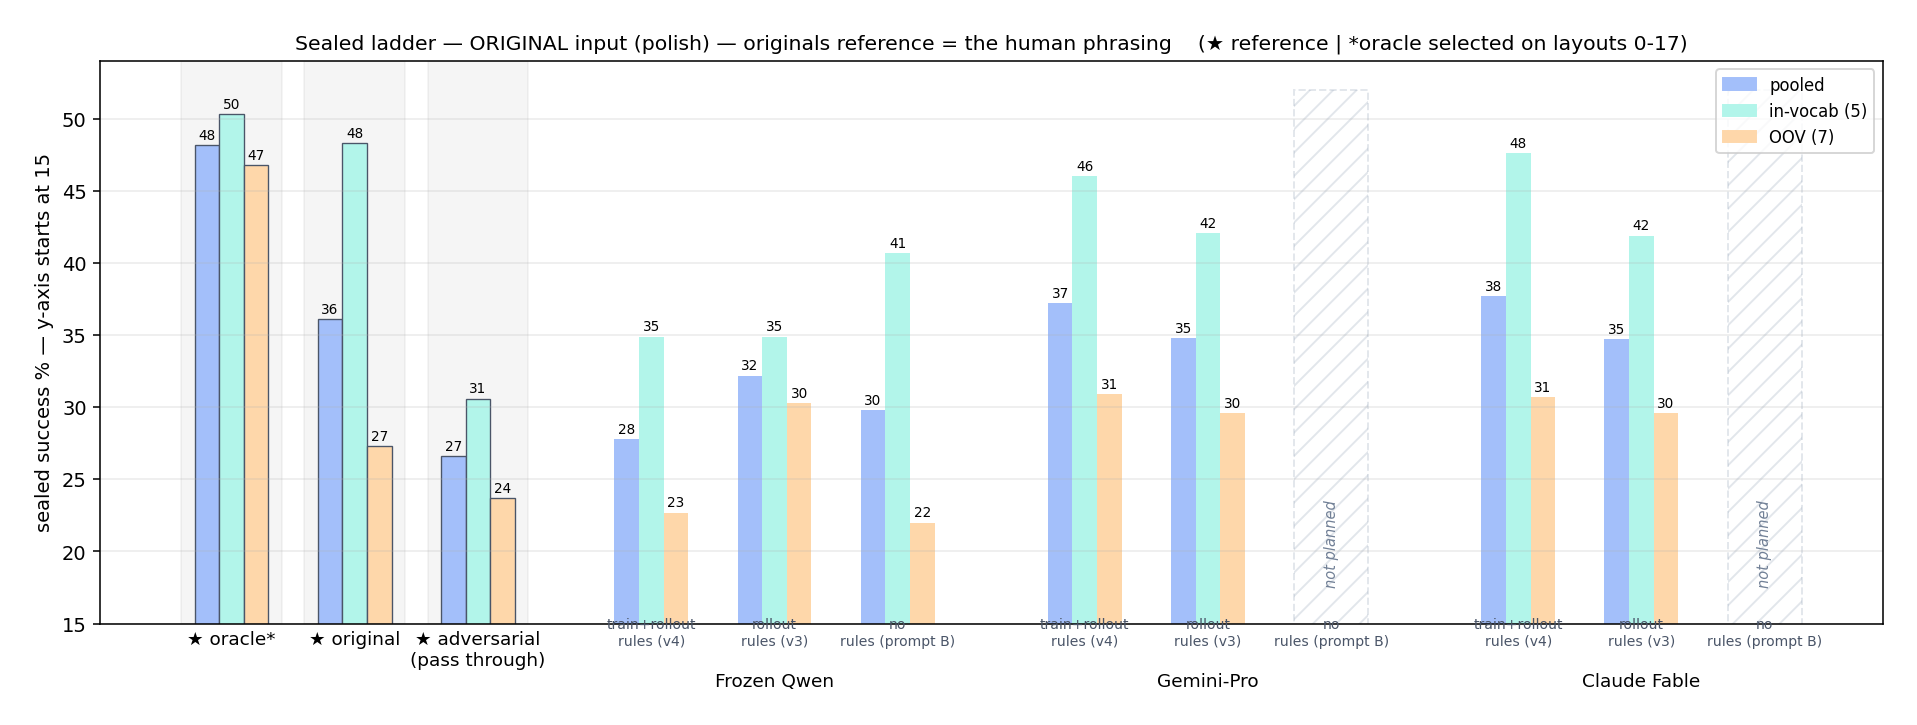
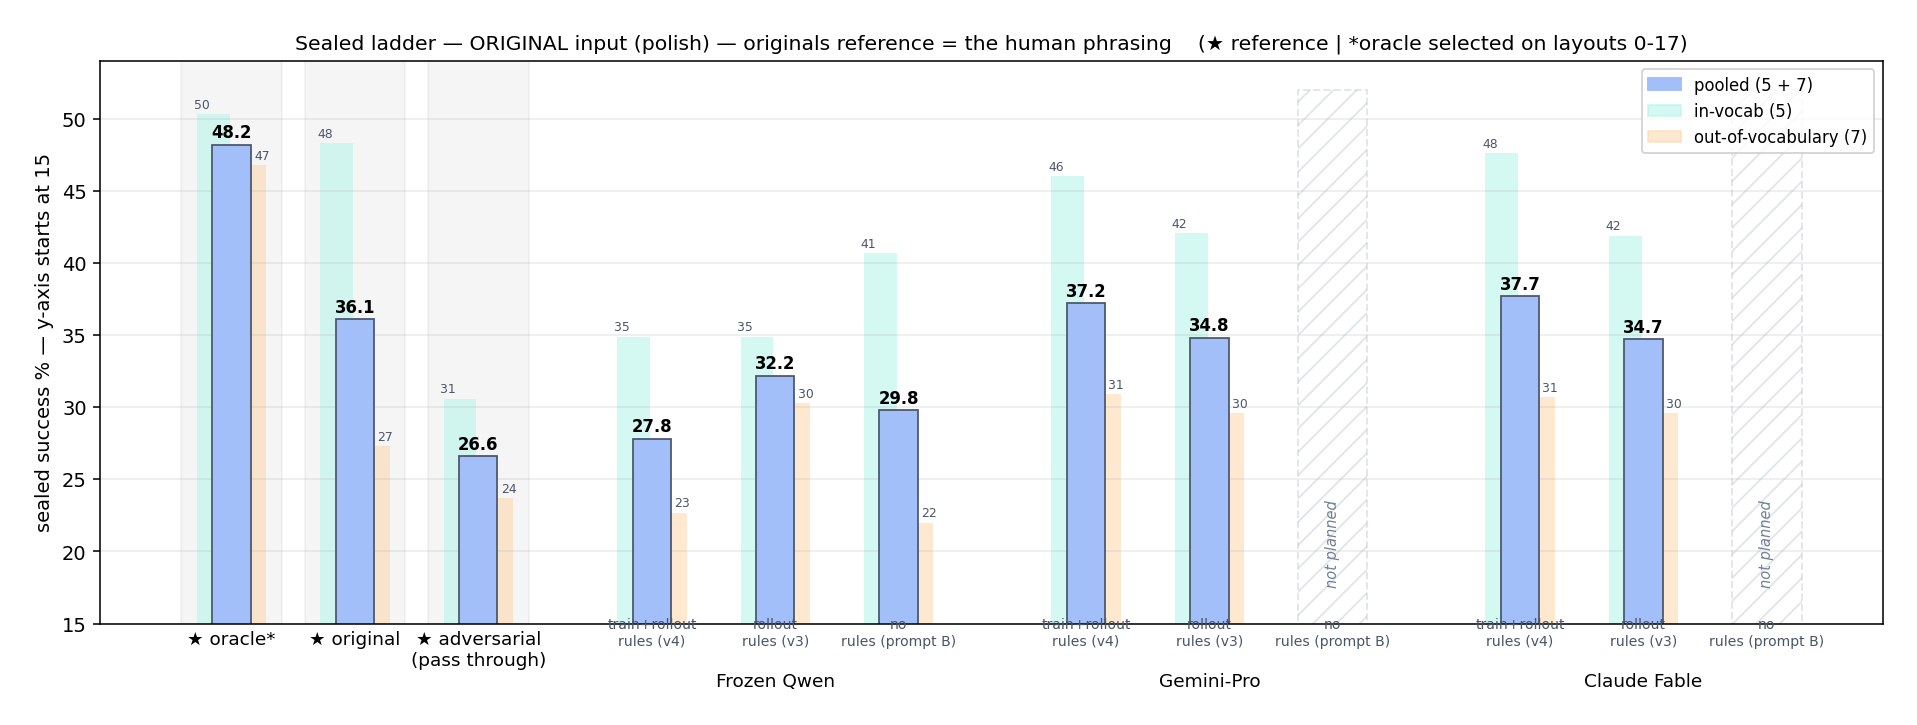
condition ladders: pooled-forward style (strata translucent behind), both conditions

diff --git a/scripts/make_condition_ladders.py b/scripts/make_condition_ladders.py
@@ -33,8 +33,19 @@ DATA = {
         "pending": {("Gemini-Pro", 2): "not planned", ("Claude Fable", 2): "not planned"},
     },
 }
-STRATA = [("pooled", "#a3bffa"), ("in-vocab (5)", "#b2f5ea"), ("OOV (7)", "#fed7aa")]
-W = 0.27
+C_POOL, C_IV, C_OOV = "#a3bffa", "#b2f5ea", "#fed7aa"
+
+
+def triplet_bars(ax, x, vals, ref=False):
+    """pi0_conditions style: pooled wide/solid in front; strata thin,
+    translucent, behind, peeking out either side."""
+    pool, iv, oov = vals
+    ax.bar(x - 0.20, iv, 0.36, color=C_IV, alpha=0.55, zorder=1, edgecolor="none")
+    ax.bar(x + 0.20, oov, 0.36, color=C_OOV, alpha=0.55, zorder=1, edgecolor="none")
+    ax.text(x - 0.33, iv + 0.4, f"{iv:.0f}", ha="center", fontsize=6.4, color="#4a5568", zorder=3)
+    ax.text(x + 0.33, oov + 0.4, f"{oov:.0f}", ha="center", fontsize=6.4, color="#4a5568", zorder=3)
+    ax.bar(x, pool, 0.42, color=C_POOL, zorder=2, edgecolor="#4a5568", lw=0.9)
+    ax.text(x, pool + 0.5, f"{pool:.1f}", ha="center", fontsize=8.5, fontweight="bold", zorder=3)
 
 for cond, spec in DATA.items():
     fig, ax = plt.subplots(figsize=(13.5, 5.0))
@@ -44,10 +55,7 @@ for cond, spec in DATA.items():
         for j, ((sname, col), v) in enumerate(zip(STRATA, vals if isinstance(vals, tuple) else [])):
             pass
     for name, vals in REFS:
-        for j, ((sname, col), v) in enumerate(zip(STRATA, vals)):
-            ax.bar(x + (j - 1) * W, v, W, color=col,
-                   edgecolor="#4a5568", lw=0.7)
-            ax.text(x + (j - 1) * W, v + 0.4, f"{v:.0f}", ha="center", fontsize=7)
+        triplet_bars(ax, x, vals, ref=True)
         ax.axvspan(x - 0.55, x + 0.55, color="#000000", alpha=0.04, zorder=0)
         ticks.append(x)
         ticklabels.append("★ " + name)
@@ -57,15 +65,13 @@ for cond, spec in DATA.items():
         cxs = []
         for i, cell in enumerate(cells):
             if cell is None:
-                ax.bar(x, 52, 3 * W, color="none", edgecolor="#a0aec0", ls="--",
+                ax.bar(x, 52, 0.76, color="none", edgecolor="#a0aec0", ls="--",
                        lw=1.0, hatch="//", alpha=0.30)
                 note = spec["pending"].get((model, i), "not yet run")
                 ax.text(x, 17.5, note, ha="center", va="bottom", fontsize=7.5,
                         color="#718096", style="italic", rotation=90)
             else:
-                for j, ((sname, col), v) in enumerate(zip(STRATA, cell)):
-                    ax.bar(x + (j - 1) * W, v, W, color=col)
-                    ax.text(x + (j - 1) * W, v + 0.4, f"{v:.0f}", ha="center", fontsize=7)
+                triplet_bars(ax, x, cell)
             role = spec["roles"][i]
             ax.text(x, 15.4, role.replace(" rules", "\nrules"), ha="center", va="top",
                     fontsize=7.2, color="#4a5568")
@@ -74,8 +80,11 @@ for cond, spec in DATA.items():
         ticks.append(sum(cxs) / len(cxs))
         ticklabels.append("\n\n" + model)
         x += 0.7
-    handles = [plt.Rectangle((0, 0), 1, 1, color=c) for _, c in STRATA]
-    ax.legend(handles, [s for s, _ in STRATA], fontsize=8.5, loc="upper right")
+    handles = [plt.Rectangle((0, 0), 1, 1, color=C_POOL),
+               plt.Rectangle((0, 0), 1, 1, color=C_IV, alpha=0.55),
+               plt.Rectangle((0, 0), 1, 1, color=C_OOV, alpha=0.55)]
+    ax.legend(handles, ["pooled (5 + 7)", "in-vocab (5)", "out-of-vocabulary (7)"],
+              fontsize=8.5, loc="upper right")
     ax.set_xticks(ticks)
     ax.set_xticklabels(ticklabels, fontsize=9.5)
     ax.tick_params(axis="x", length=0)
